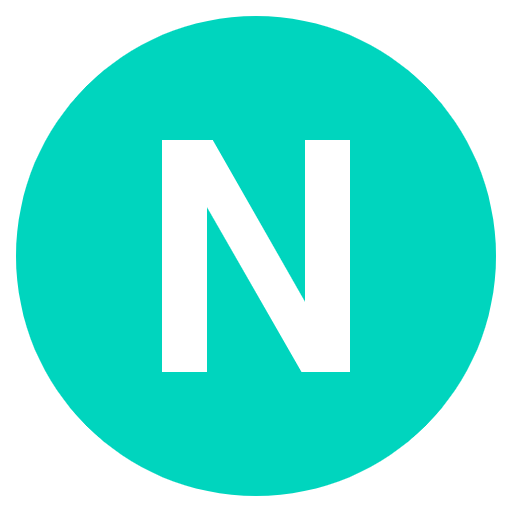
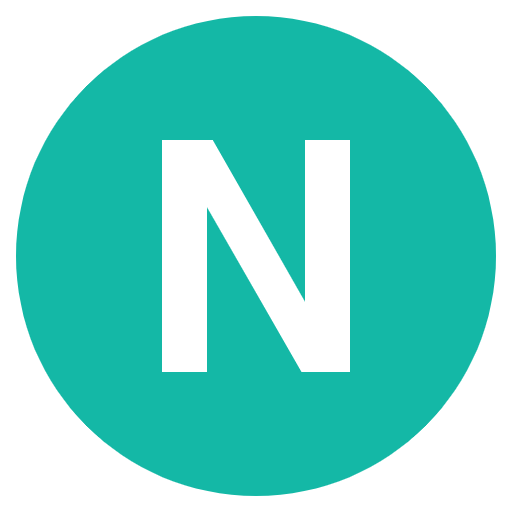
颜色和primevue主题色统一

diff --git a/src/components/layouts/index.vue b/src/components/layouts/index.vue
@@ -3,11 +3,12 @@
   <div class="h-screen w-screen flex flex-col">
     <Menubar class="px-14 h-14 border-0" :model="items">
       <template #start>
-        <i-emojione-monotone-letter-n class=" text-4xl text-teal-400" />
+        <i-emojione-monotone-letter-n class=" text-4xl" style="color:var(--p-primary-color)" />
       </template>
       <template #end>
-        <div class="flex items-center gap-2">
-          <Avatar image="/images/avatar/amyelsner.png" shape="circle" />
+        <div class="flex items-center gap-4">
+          <a href="xxx"><i-simple-icons-telegram class="text-2xl" style=" color:var(--p-primary-color);" /></a>
+          <Button label="登录" size="small" />
         </div>
       </template>
     </Menubar>
@@ -21,18 +22,7 @@ defineOptions({
   name: 'layout-index'
 })
 
-const items = [
-  {
-    label: '首页',
-    icon: 'pi pi-fw pi-home',
-    to: '/'
-  },
-  {
-    label: '关于',
-    icon: 'pi pi-fw pi-info-circle',
-    to: '/about'
-  }
-]
+
 
 </script>
 

diff --git a/components.d.ts b/components.d.ts
@@ -27,6 +27,7 @@ declare module 'vue' {
     IEmojioneMonotoneLetterX: typeof import('~icons/emojione-monotone/letter-x')['default']
     IMdiAccountBox: typeof import('~icons/mdi/account-box')['default']
     InputText: typeof import('primevue/inputtext')['default']
+    ISimpleIconsTelegram: typeof import('~icons/simple-icons/telegram')['default']
     Layouts: typeof import('./src/components/layouts/index.vue')['default']
     Menubar: typeof import('primevue/menubar')['default']
     RouterLink: typeof import('vue-router')['RouterLink']
